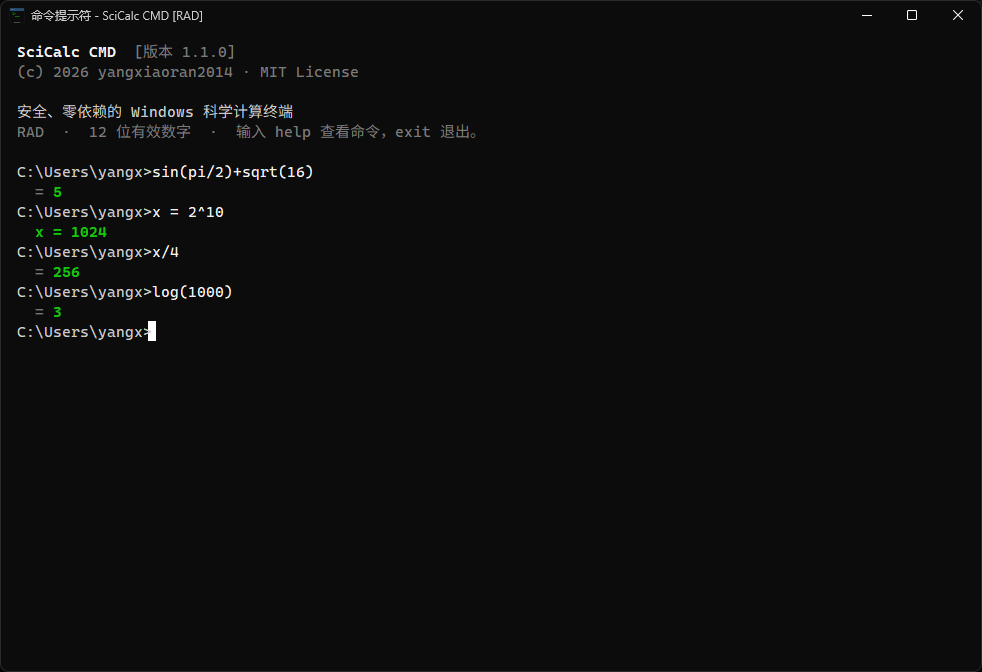
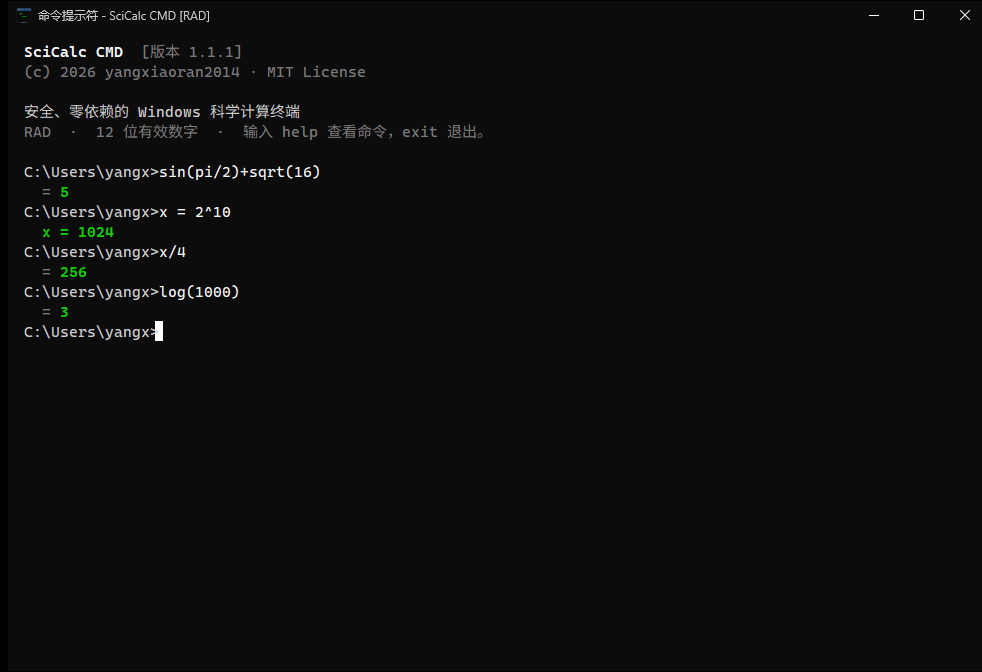
release: prepare v1.1.1
Bump the application and executable metadata to 1.1.1, refresh the desktop screenshot, document the release assets, and keep the local test-signing helper in sync.

diff --git a/docs/index.html b/docs/index.html
@@ -238,7 +238,7 @@
     </main>
 
     <footer class="site-footer">
-      <span>SciCalc 1.1.0 · 纯前端科学计算器</span>
+      <span>SciCalc 1.1.1 · 纯前端科学计算器</span>
       <span class="footer-sep" aria-hidden="true">/</span>
       <span>no accounts · no tracking</span>
       <span class="footer-spacer"></span>

diff --git a/tests/test_cli.py b/tests/test_cli.py
@@ -97,7 +97,7 @@ class CliTests(unittest.TestCase):
     def test_version(self) -> None:
         result = run_cli("--version")
         self.assertEqual(result.returncode, 0)
-        self.assertIn("scicalc 1.1.0", result.stdout)
+        self.assertIn("scicalc 1.1.1", result.stdout)
 
 
 if __name__ == "__main__":

diff --git a/scicalc/__init__.py b/scicalc/__init__.py
@@ -1,4 +1,4 @@
 """SciCalc — a safe scientific calculator for Windows, the terminal, and the web."""
 
-__version__ = "1.1.0"
+__version__ = "1.1.1"
 __all__ = ["__version__"]

diff --git a/README.md b/README.md
@@ -44,11 +44,13 @@ Windows 桌面版下载：[GitHub Releases](https://github.com/yangxiaoran2014/s
 
 ### 直接运行 EXE
 
-从 [Releases](https://github.com/yangxiaoran2014/scicalc/releases/latest) 下载 `SciCalcCMD-1.1.0-windows-x64.exe`，双击即可，不需要安装 Python。
+从 [Releases](https://github.com/yangxiaoran2014/scicalc/releases/latest) 下载 `SciCalcCMD-1.1.1-windows-x64.exe`，双击即可，不需要安装 Python。
 
 > 这是一个未签名的个人构建。Windows SmartScreen 可能提示“未知发布者”，请核对 Release 中公布的 SHA-256 后运行。
 >
[2 lines of base64/hex data omitted]
+>
+> Release 同时提供一个带本地测试证书的 `SciCalcCMD-1.1.1-windows-x64-test-signed.exe`。该证书不受公共信任，仅用于验证签名流程；普通用户建议下载上面的未签名官方构建。
 
 ### 从源码运行
 
@@ -130,7 +132,7 @@ powershell -ExecutionPolicy Bypass -File .\build-windows.ps1
 powershell -ExecutionPolicy Bypass -File .\sign-windows-test.ps1
 ```
 
-脚本会创建一个仅用于本地测试的证书链，复制 `dist\SciCalcCMD-1.1.0-windows-x64.exe` 到 `dist\signed\`，使用 SHA-256 和 RFC 3161 时间戳签名，并导出 `SciCalc-LocalTest-RootCA.cer`。原始 EXE 不会被修改。
+脚本会创建一个仅用于本地测试的证书链，复制 `dist\SciCalcCMD-1.1.1-windows-x64.exe` 到 `dist\signed\`，使用 SHA-256 和 RFC 3161 时间戳签名，并导出 `SciCalc-LocalTest-RootCA.cer`。原始 EXE 不会被修改。
 
 > 这是**自签名测试**，不是受信任的公开签名。其他电脑没有这个测试根证书，仍会显示“未知发布者”，SmartScreen 也可能继续拦截。不要把它当作公开发布签名。
 >
@@ -179,7 +181,7 @@ python -m scicalc -2^2 + 10
 
 ```console
 $ python -m scicalc
-SciCalc 1.1.0
+SciCalc 1.1.1
 科学计算器  ·  RAD  ·  12 位有效数字
 输入 :help 查看命令，:quit 退出。
 

diff --git a/CHANGELOG.md b/CHANGELOG.md
@@ -4,7 +4,11 @@ All notable changes to SciCalc are documented here. The format follows
 [Keep a Changelog](https://keepachangelog.com/en/1.1.0/), and releases use
 [Semantic Versioning](https://semver.org/).
 
-## [Unreleased]
+## [1.1.1] - 2026-10-25
+
+### Changed
+
+- Version bumped to 1.1.1 for the bug-fix Windows release.
 
 ### Fixed
 
@@ -58,5 +62,6 @@ All notable changes to SciCalc are documented here. The format follows
 - Python and Node.js test suites.
 - GitHub Pages deployment from `docs/`.
 
+[1.1.1]: https://github.com/yangxiaoran2014/scicalc/releases/tag/v1.1.1
 [1.1.0]: https://github.com/yangxiaoran2014/scicalc/releases/tag/v1.1.0
 [1.0.0]: https://github.com/yangxiaoran2014/scicalc/releases/tag/v1.0.0
